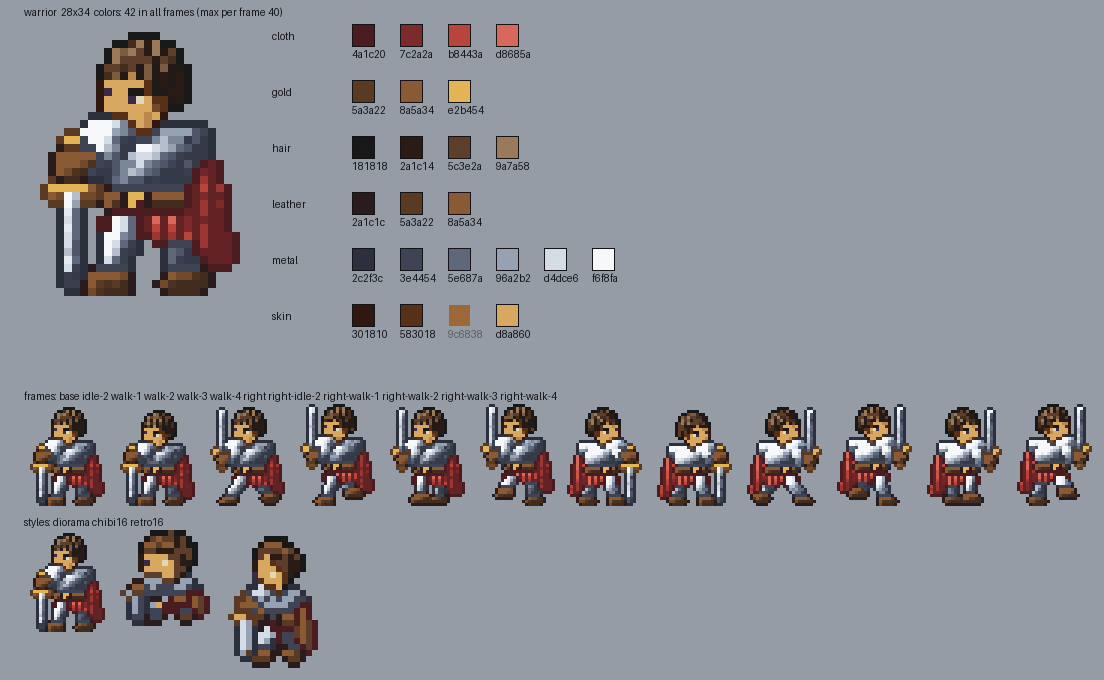
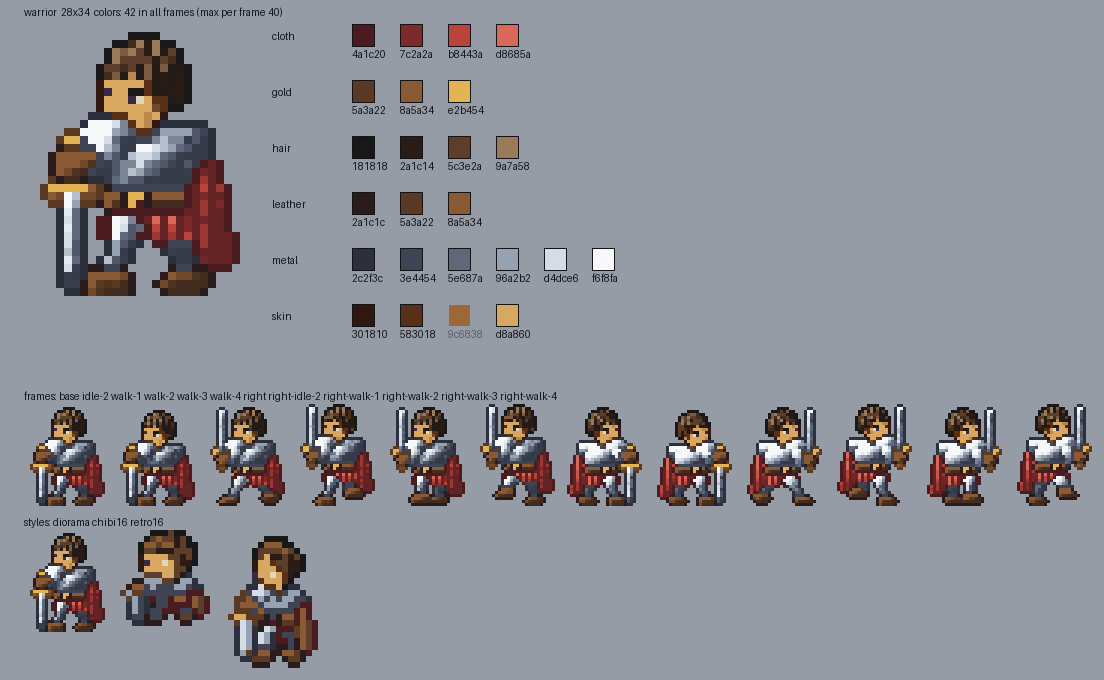
手足の形 limb を足し、戦士の脚を太腿から足首へ細くする
筒では太腿も足首も同じ太さで棒に見えた。点は関節だけにして太さを分けて持ち、
歩きのずらし・反転・変形が関節にそのまま効くようにする。

Claude-Session: https://claude.ai/code/session_01Raj3ZHMvaTdhHcmmGwa9QK

diff --git a/tools/build.py b/tools/build.py
@@ -73,6 +73,19 @@ def draw_shape(draw, shape, shift=(0, 0)):
                           ((x1 - ox) * s, (y1 - oy) * s), ((x0 - ox) * s, (y0 - oy) * s)], fill=255)
         for x, y in pts:
             draw.ellipse([(x - r) * s, (y - r) * s, (x + r) * s, (y + r) * s], fill=255)
+    elif kind == "limb":
+        # 関節ごとに太さの変わる手足。筒（capsule）では太腿も足首も同じ太さになり、棒に見えた。
+        # 点は関節だけにし、太さは radii に分けて持つ。歩きのずらし・反転・変形が関節の点にそのまま効く
+        pts = shape["points"]
+        radii = shape["radii"]
+        for (x0, y0), (x1, y1), r0, r1 in zip(pts, pts[1:], radii, radii[1:]):
+            dx, dy = x1 - x0, y1 - y0
+            n = math.hypot(dx, dy) or 1.0
+            nx, ny = -dy / n, dx / n
+            draw.polygon([((x0 + nx * r0) * s, (y0 + ny * r0) * s), ((x1 + nx * r1) * s, (y1 + ny * r1) * s),
+                          ((x1 - nx * r1) * s, (y1 - ny * r1) * s), ((x0 - nx * r0) * s, (y0 - ny * r0) * s)], fill=255)
+        for (x, y), r in zip(pts, radii):
+            draw.ellipse([(x - r) * s, (y - r) * s, (x + r) * s, (y + r) * s], fill=255)
     elif kind == "pixline":
         # ドット単位の線。細い斜めの剣や槍は、縮小に任せると段がそろわず鎖のように途切れる。
         # 仕上がりの格子で Bresenham の線を引き、そのドットを丸ごと塗る
@@ -608,6 +621,8 @@ def apply_transforms(spec):
                         sh["points"] = [[tx(x), ty(y)] for x, y in sh["points"]]
                     if "r" in sh:
                         sh["r"] = sh["r"] * (sx + sy) / 2
+                    if "radii" in sh:
+                        sh["radii"] = [r * (sx + sy) / 2 for r in sh["radii"]]
                     if sh["type"] == "ellipse":
                         cx, cy, rx, ry = sh["at"]
                         ky = sy if below is None or cy > below else 1.0

diff --git a/tests/test_build.py b/tests/test_build.py
@@ -48,6 +48,15 @@ class BuildTest(unittest.TestCase):
                 committed = json.loads(path.read_text(encoding="utf-8"))
                 self.assertEqual(json.loads(json.dumps(body.spec_for(kind))), committed)
 
+    def test_limb_tapers_from_first_joint_to_last(self):
+        # 関節ごとの太さで描く手足。上（太腿）が下（足首）より太い
+        from PIL import Image, ImageDraw
+        im = Image.new("L", (20 * build.SS, 20 * build.SS), 0)
+        build.draw_shape(ImageDraw.Draw(im), {"type": "limb", "points": [[10, 3], [10, 10], [10, 17]], "radii": [3, 2, 1]})
+        width = lambda y: sum(1 for x in range(im.width) if im.getpixel((x, y * build.SS)) > 0)  # noqa: E731
+        self.assertGreater(width(4), width(10))
+        self.assertGreater(width(10), width(16))
+
     def test_flatten_crown_lowers_narrow_top(self):
         # 3ドット幅のこぶは1段下がり、広い頭頂や杖の先のような形はそのまま
         a = "#101010"

diff --git a/docs/progress/README.md b/docs/progress/README.md
@@ -461,3 +461,13 @@
 
 - 髪の段を #6a6e80/#a2a8b8/#dce0ea → #5a5058/#9a9280/#d8d0b0、輪郭を #2a262e に
 - 銀や白の髪は金属と同じ青灰にしない。暖かい灰から黄みの明るさへ振る
+
+## 2026-09-30 周45 手足の形 limb
+
+![左から 手本、立ち 前・後、歩き 前・後](2026-09-30-warrior-limb-legs.png)
+
+判定: 少し良くなった。戦士の脚は太さ一定の筒で、太腿も足首も同じ太さだった。
+
+- 描画器に形の種類 `limb` を足した。点は関節だけ、太さは `radii` に分けて持つ。歩きのずらし・右向きの反転・縮めの変形が関節の点にそのまま効く（輪郭の点を並べる poly では歩きのずらしが壊れる）
+- 戦士の脚を太腿 1.15・膝 0.72・足首 0.58 倍（もとの筒の太さに対して）にした。歩きのコマも崩れない
+- まだ弱い所: 腕と、職業ごとに持っている脚（剣士など）はまだ筒のまま
